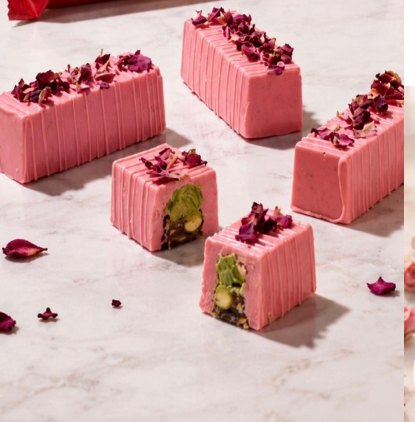
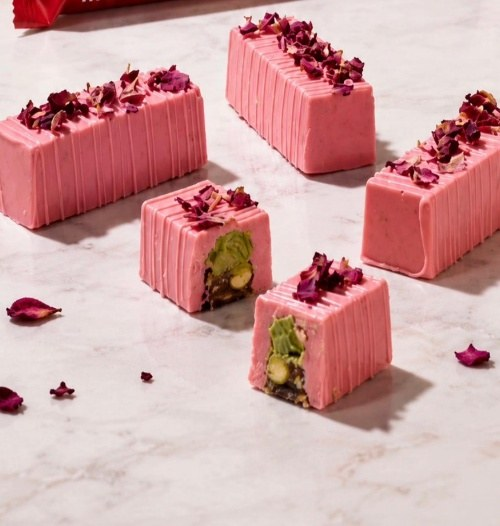
Swap the cropped photos for the owner's originals
The ten photos added this morning were cut out of the instruction sheet.
The originals from the Pages document replace them, same file names, and
the width and height on every img tag now match the real files. The
strawberry photo is the straight on shot of the three angles supplied.

diff --git a/menu.html b/menu.html
@@ -123,7 +123,7 @@
     <div class="grid-cards" data-stagger>
           <article class="card">
             <div class="card__media">
-              <img src="assets/img/bite-rose.jpg" alt="Pink rose chocolate with dried petals, one piece cut open to show the pistachio centre" width="415" height="422" decoding="async">
+              <img src="assets/img/bite-rose.jpg" alt="Pink rose chocolate with dried petals, one piece cut open to show the pistachio centre" width="500" height="526" decoding="async">
               
               <button type="button" class="card__heart" data-wish="bite-rose" aria-pressed="false" aria-label="Save Rose to your list"><svg viewBox="0 0 24 24" aria-hidden="true"><path d="M12 20s-7.5-4.6-7.5-9.4A4.1 4.1 0 0 1 12 8.2a4.1 4.1 0 0 1 7.5 2.4C19.5 15.4 12 20 12 20Z"/></svg></button>
             </div>
@@ -169,7 +169,7 @@
           </article>
           <article class="card">
             <div class="card__media">
-              <img src="assets/img/bite-mango.jpg" alt="Mango Delight chocolate squares on a plate" width="352" height="460" decoding="async">
+              <img src="assets/img/bite-mango.jpg" alt="Mango Delight chocolate squares on a plate" width="438" height="570" decoding="async">
               
               <button type="button" class="card__heart" data-wish="bite-mango" aria-pressed="false" aria-label="Save Mango to your list"><svg viewBox="0 0 24 24" aria-hidden="true"><path d="M12 20s-7.5-4.6-7.5-9.4A4.1 4.1 0 0 1 12 8.2a4.1 4.1 0 0 1 7.5 2.4C19.5 15.4 12 20 12 20Z"/></svg></button>
             </div>
@@ -192,7 +192,7 @@
           </article>
           <article class="card">
             <div class="card__media">
-              <img src="assets/img/bite-strawberry.jpg" alt="Pink strawberry chocolate hearts with a white drizzle" width="346" height="366" decoding="async">
+              <img src="assets/img/bite-strawberry.jpg" alt="Pink strawberry chocolate hearts with a white drizzle" width="465" height="456" decoding="async">
               
               <button type="button" class="card__heart" data-wish="bite-strawberry" aria-pressed="false" aria-label="Save Strawberry to your list"><svg viewBox="0 0 24 24" aria-hidden="true"><path d="M12 20s-7.5-4.6-7.5-9.4A4.1 4.1 0 0 1 12 8.2a4.1 4.1 0 0 1 7.5 2.4C19.5 15.4 12 20 12 20Z"/></svg></button>
             </div>
@@ -215,7 +215,7 @@
           </article>
           <article class="card">
             <div class="card__media">
-              <img src="assets/img/bite-rasmalai.jpg" alt="White rasmalai chocolate bites topped with pistachio, nuts and gold leaf" width="225" height="376" loading="lazy" decoding="async">
+              <img src="assets/img/bite-rasmalai.jpg" alt="White rasmalai chocolate bites topped with pistachio, nuts and gold leaf" width="288" height="477" loading="lazy" decoding="async">
               
               <button type="button" class="card__heart" data-wish="bite-rasmalai" aria-pressed="false" aria-label="Save Rasmalai to your list"><svg viewBox="0 0 24 24" aria-hidden="true"><path d="M12 20s-7.5-4.6-7.5-9.4A4.1 4.1 0 0 1 12 8.2a4.1 4.1 0 0 1 7.5 2.4C19.5 15.4 12 20 12 20Z"/></svg></button>
             </div>
@@ -445,10 +445,10 @@
           </article>
     </div>
     <div class="gallery" data-stagger>
-          <img src="assets/img/bite-rasmalai-box.jpg" alt="A pastel gift box of white rasmalai chocolate squares flecked with rose petals" width="258" height="381" loading="lazy" decoding="async">
-          <img src="assets/img/bite-mango-hearts.jpg" alt="Heart shaped mango chocolates studded with red fruit pieces" width="274" height="422" loading="lazy" decoding="async">
-          <img src="assets/img/bite-rose-flowers.jpg" alt="Flower shaped rose chocolates on a white plate" width="304" height="333" loading="lazy" decoding="async">
-          <img src="assets/img/bite-mango-mould.jpg" alt="Mango and white chocolate setting in the mould" width="306" height="447" loading="lazy" decoding="async">
+          <img src="assets/img/bite-rasmalai-box.jpg" alt="A pastel gift box of white rasmalai chocolate squares flecked with rose petals" width="328" height="480" loading="lazy" decoding="async">
+          <img src="assets/img/bite-mango-hearts.jpg" alt="Heart shaped mango chocolates studded with red fruit pieces" width="364" height="522" loading="lazy" decoding="async">
+          <img src="assets/img/bite-rose-flowers.jpg" alt="Flower shaped rose chocolates on a white plate" width="400" height="488" loading="lazy" decoding="async">
+          <img src="assets/img/bite-mango-mould.jpg" alt="Mango and white chocolate setting in the mould" width="359" height="553" loading="lazy" decoding="async">
         </div>
   </div>
 </section>
@@ -831,7 +831,7 @@
           </article>
           <article class="card">
             <div class="card__media">
-              <img src="assets/img/bar-biscoff.jpg" alt="A Biscoff chocolate bar cut to show the layers, beside a jar of Biscoff spread" width="399" height="457" loading="lazy" decoding="async">
+              <img src="assets/img/bar-biscoff.jpg" alt="A Biscoff chocolate bar cut to show the layers, beside a jar of Biscoff spread" width="496" height="608" loading="lazy" decoding="async">
               
               <button type="button" class="card__heart" data-wish="bar-biscoff" aria-pressed="false" aria-label="Save Biscoff to your list"><svg viewBox="0 0 24 24" aria-hidden="true"><path d="M12 20s-7.5-4.6-7.5-9.4A4.1 4.1 0 0 1 12 8.2a4.1 4.1 0 0 1 7.5 2.4C19.5 15.4 12 20 12 20Z"/></svg></button>
             </div>
@@ -854,7 +854,7 @@
           </article>
           <article class="card">
             <div class="card__media">
-              <img src="assets/img/bar-biscoff-small.jpg" alt="A small Biscoff chocolate bar on a wooden board beside a jar of Biscoff spread" width="305" height="450" loading="lazy" decoding="async">
+              <img src="assets/img/bar-biscoff-small.jpg" alt="A small Biscoff chocolate bar on a wooden board beside a jar of Biscoff spread" width="389" height="611" loading="lazy" decoding="async">
               
               <button type="button" class="card__heart" data-wish="bar-biscoff-small" aria-pressed="false" aria-label="Save Small Biscoff to your list"><svg viewBox="0 0 24 24" aria-hidden="true"><path d="M12 20s-7.5-4.6-7.5-9.4A4.1 4.1 0 0 1 12 8.2a4.1 4.1 0 0 1 7.5 2.4C19.5 15.4 12 20 12 20Z"/></svg></button>
             </div>

diff --git a/index.html b/index.html
@@ -183,7 +183,7 @@
           </article>
           <article class="card">
             <div class="card__media">
-              <img src="assets/img/bite-rasmalai.jpg" alt="White rasmalai chocolate bites topped with pistachio, nuts and gold leaf" width="225" height="376" loading="lazy" decoding="async">
+              <img src="assets/img/bite-rasmalai.jpg" alt="White rasmalai chocolate bites topped with pistachio, nuts and gold leaf" width="288" height="477" loading="lazy" decoding="async">
               
               <button type="button" class="card__heart" data-wish="bite-rasmalai" aria-pressed="false" aria-label="Save Rasmalai to your list"><svg viewBox="0 0 24 24" aria-hidden="true"><path d="M12 20s-7.5-4.6-7.5-9.4A4.1 4.1 0 0 1 12 8.2a4.1 4.1 0 0 1 7.5 2.4C19.5 15.4 12 20 12 20Z"/></svg></button>
             </div>
@@ -355,7 +355,7 @@
           </article>
           <article class="card">
             <div class="card__media">
-              <img src="assets/img/bar-biscoff.jpg" alt="A Biscoff chocolate bar cut to show the layers, beside a jar of Biscoff spread" width="399" height="457" loading="lazy" decoding="async">
+              <img src="assets/img/bar-biscoff.jpg" alt="A Biscoff chocolate bar cut to show the layers, beside a jar of Biscoff spread" width="496" height="608" loading="lazy" decoding="async">
               
               <button type="button" class="card__heart" data-wish="bar-biscoff" aria-pressed="false" aria-label="Save Biscoff Bar to your list"><svg viewBox="0 0 24 24" aria-hidden="true"><path d="M12 20s-7.5-4.6-7.5-9.4A4.1 4.1 0 0 1 12 8.2a4.1 4.1 0 0 1 7.5 2.4C19.5 15.4 12 20 12 20Z"/></svg></button>
             </div>

diff --git a/README.md b/README.md
@@ -74,12 +74,12 @@ at around 70 to 80 percent quality so pages stay fast.
 Every photo is Meltova's own. The last stock image, a Pexels photo standing in for
 the Biscoff bar, was replaced in September 2026.
 
-**Ten photos are small and worth replacing.** The Rasmalai, Mango, Rose,
-Strawberry and Biscoff bar photos added in September 2026, and the four in the
-photo row under the flavoured bites, were cut out of a single reference sheet
-rather than saved from the originals. They are about 250 to 400 pixels wide, so
-they look soft on a sharp phone screen. Save the original photos over them, same
-file names, and they sharpen up with no other change:
+**Ten photos are on the small side.** The Rasmalai, Mango, Rose, Strawberry and
+Biscoff bar photos added in September 2026, and the four in the photo row under
+the flavoured bites, came from the owner's Pages document at 290 to 500 pixels
+wide. They are fine on a laptop and a little soft on a sharp phone screen. If
+larger versions turn up, save them over these, same file names, and nothing else
+needs to change:
 
 `bite-rasmalai.jpg`, `bite-rasmalai-box.jpg`, `bite-mango.jpg`, `bite-mango-hearts.jpg`,
 `bite-mango-mould.jpg`, `bite-rose.jpg`, `bite-rose-flowers.jpg`, `bite-strawberry.jpg`,
